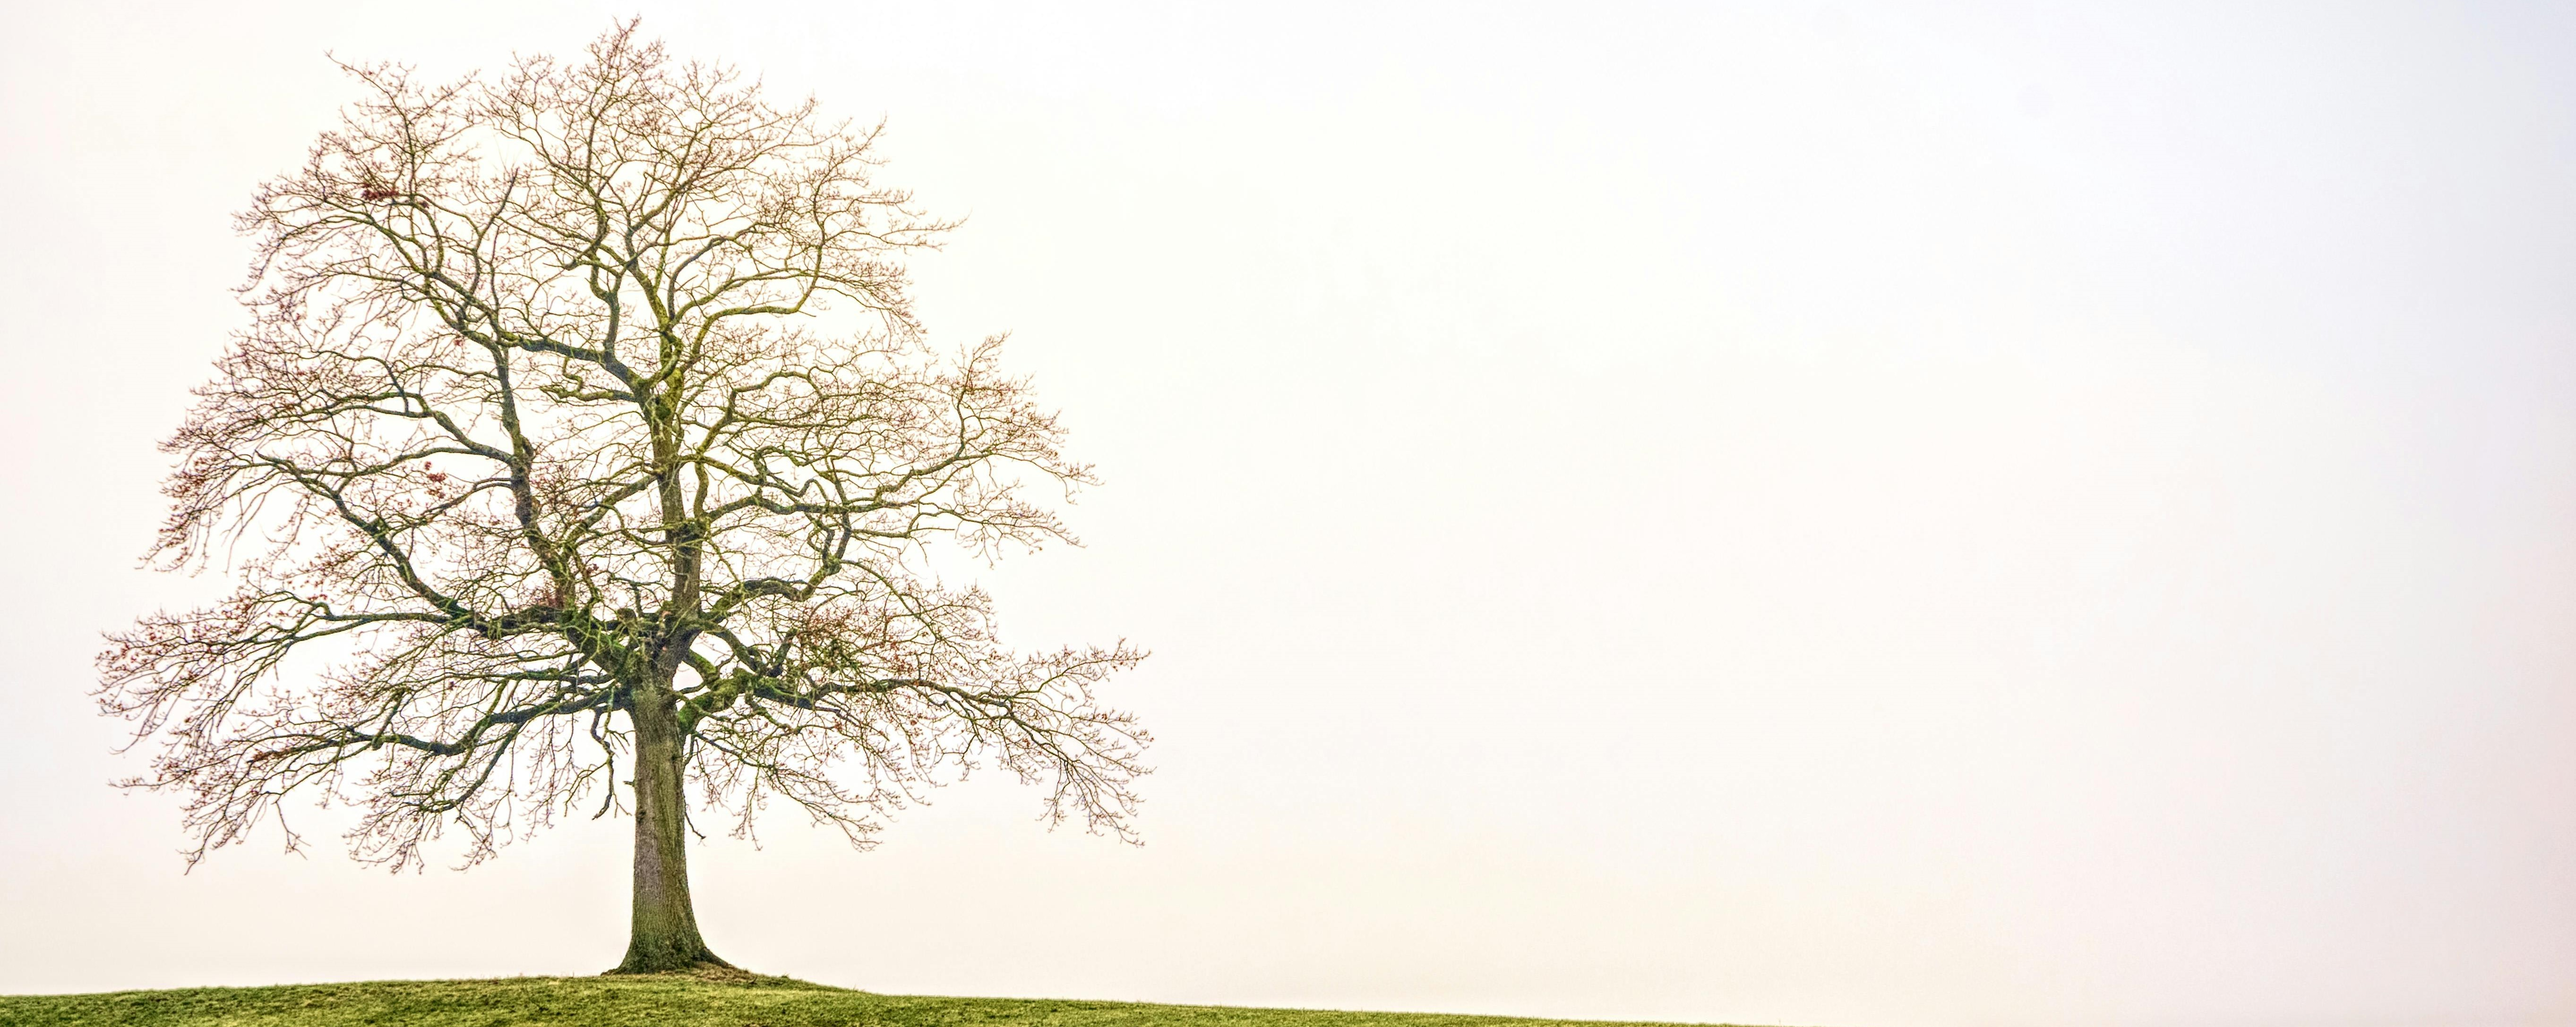
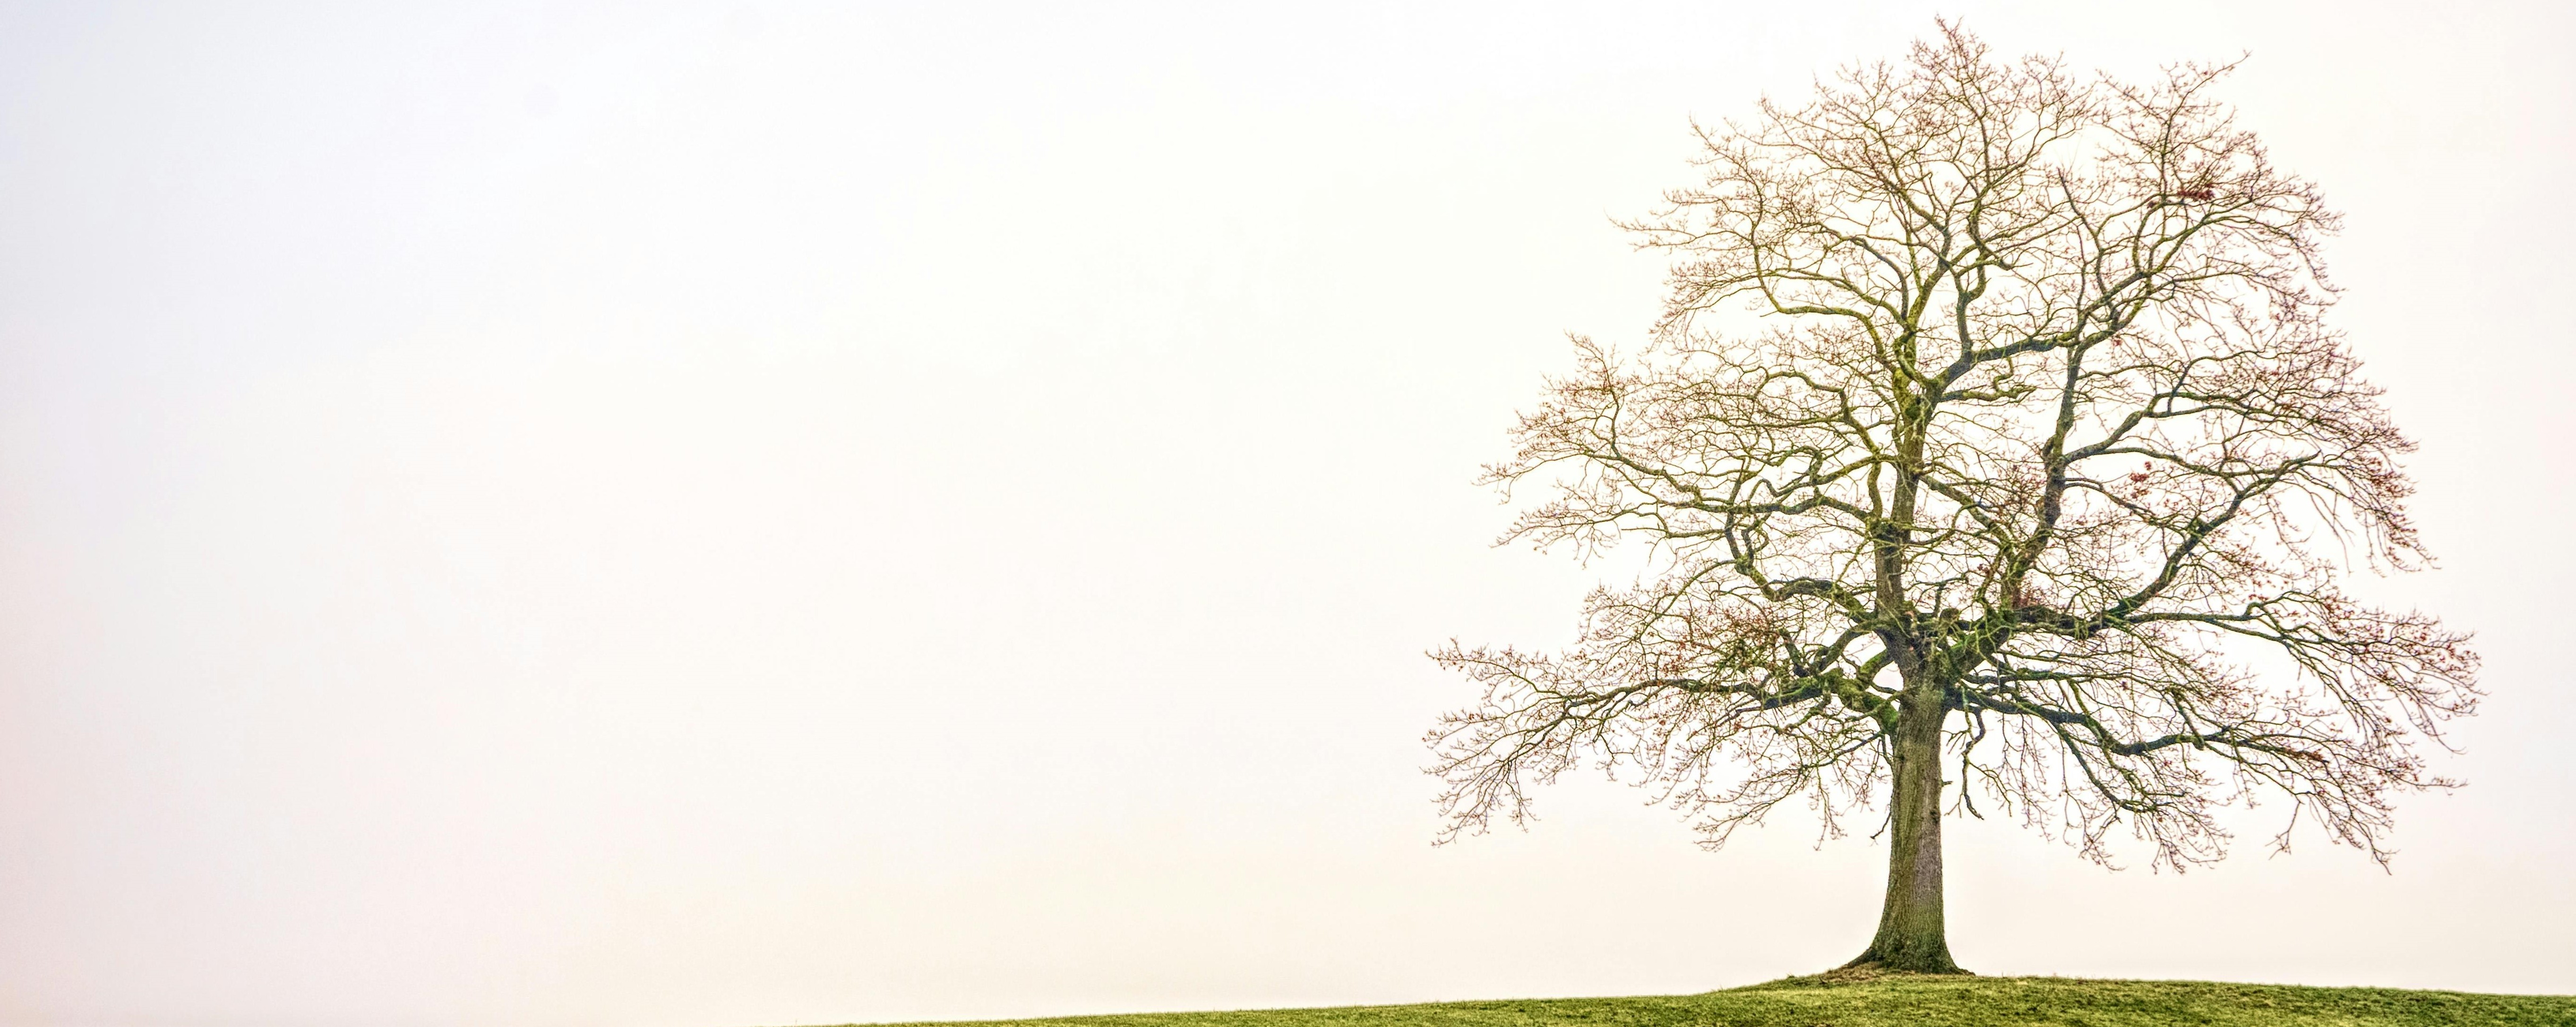
pictures and information in main section. nav styling

diff --git a/index.html b/index.html
@@ -1,0 +1,107 @@
+<!DOCTYPE html>
+<html lang="en">
+
+<head>
+  <meta charset="UTF-8">
+  <meta name="viewport" content="width=device-width, initial-scale=1.0">
+  <meta http-equiv="X-UA-Compatible" content="ie=edge">
+  <title>M L Trees</title>
+  <link href="assets/css/style.css" rel="stylesheet" type="text/css">
+  <meta name="description" content="M L Trees is a small business that specializes in domestic arboriculture.">
+  <meta name="keywords"
+    content="M L Trees, arboriculture, domestic arboriculture, trees, tree planting, tree care, tree care services, tree planting services, tree care services in the North West London, Hertfordshire, London, North West London, tree care in London, tree care in London.">
+  <meta name="author" content="M L Trees">
+
+</head>
+
+
+
+<body>
+
+  <header>
+    <div>
+      <h1 id="logo">M L TREES</h1>
+
+
+    </div>
+
+    <div id=menu>
+      <nav>
+        <ul>
+          <li><a href="#menu">Home</a></li>
+          <li><a href="#about">About</a></li>
+          <li><a href="#services">Services</a></li>
+          <li><a href="form.html">Contact</a></li>
+        </ul>
+      </nav>
+    </div>
+
+
+  </header>
+
+  <main>
+    <section>
+      <h2 id="about">Welcome to M L Trees</h2>
+      <p>We are a small business that specializes in domestic arboriculture. We offer a wide range of services,
+        including tree planting, tree care, and tree care services in the North West London. Our goal is to help our
+        clients achieve their tree planting and tree care goals.</p>
+    </section>
+
+
+    <section>
+      <h2 id="services">Our Services</h2>
+      <div>
+        <h3>Tree Reductions</h3>
+        <img src="assets/images/PXL_20211105_120330155 (1).jpg" alt="tree reduction" width="250px" height="300px">
+        
+        <p>We offer a variety of reduction services to benfit the health and asthectics of trees.
+      </div>
+
+      <div>  
+        <h3>Dead and Dangerous Trees</h3>
+        <img src="assets/images/PXL_20220221_110611072.jpg" width="250px" height="300px" alt="tree fallen over">
+        <p>We offer services to help you remove dead trees and other damaged trees from your garden.</p>
+      </div>
+      
+      <div>
+        <h3>Removal</h3>
+        <img src="assets/images/PXL_20211028_085101542~2.jpg" width="450" height="300" alt="dismantling a tree">
+        
+        <p>We offer removal services to help you remove dead trees and other damaged trees from your garden.</p>  
+      </div>
+
+    
+      
+      <div>
+        <h3>Tree Planting</h3>
+        <img src="" alt="planting a tree">
+        <p>We offer a variety of tree planting services, including full-grown trees, partial grown trees, and
+          compost trees. Our experienced team will work with you to create a customized plan that meets your needs and
+          budget.</p>
+      </div>
+    </section>
+  </main>
+
+  <footer>
+    <img id="footer-logo" src="assets/images/header image of tree.png" width="100px"  height="130px" alt="M L Trees logo">
+    <div id="social-media">
+      <h4>Follow us!</h4>
+      <a href="https://www.facebook.com" target="_blank" rel="noopener"
+        aria-label="Find us on Facebook (link opens in a new tab)"><i class="fa-brands fa-facebook"></i>Facebook</a>
+      <a href="https://www.instagram.com" target="_blank" rel="noopener"
+        aria-label="Find us on Instagram (link opens in a new tab)"><i class="fa-brands fa-instagram"></i>Instagram</a>
+      <a href="https://www.twitter.com" target="_blank" rel="noopener"
+        aria-label="Find us on Twitter (link opens in a new tab)"><i class="fa-brands fa-twitter"></i>Twitter</a>
+      <a href="https://www.youtube.com" target="_blank" rel="noopener"
+        aria-label="Find us on Youtube (opens in a new tab)"><i class="fa-brands fa-youtube"></i>Youtube</a>)
+    </div>
+    <p>Copyright &copy; 2023 M L Trees</p>
+
+  </footer>
+
+
+  <!--font awesome kit-->
+  <script src="https://kit.fontawesome.com/9517f1cd09.js" crossorigin="anonymous"></script>
+</body>
+
+</html>

diff --git a/assets/css/style.css b/assets/css/style.css
@@ -11,8 +11,8 @@
 }
 /*genral styles*/
 body { 
-  display: flex;
   background: #e7dabc;
+  min-height: 100vh;
 
 
 }
@@ -20,5 +20,43 @@ body {
 /*header styles*/
 header {
   width: 100%;
-  background: url("../images/pexels-johannes-plenio-1146706.jpg") no-repeat;
+  height: 300px;
+  background: url("../images/pexels-johannes-plenio-1146706.jpg") no-repeat center center/cover;
+}
+
+/*nav styles*/
+#menu {
+  letter-spacing: 2px;
+  font-size: 110%;
+  
+  
+ 
+ 
+}
+
+nav {
+  width: 100%;
+  padding-left: 1em;
+  display:flex;
+  justify-content: space-between;
+  font-family: 'Oswald', sans-serif;
+  font-size: 1.5em;
+  letter-spacing: 2px;
+  position: bottom;
+ 
+ 
+  
+}
+
+#logo {
+  font-family: 'Oswald', sans-serif;
+  font-size: 5rem;
+  color: #000000;
+  margin-left: 10px;
+  padding: 10px;
+  text-decoration: none;
+}
+
+#menu li{
+   list-style-type: none;
 }

diff --git a/form.html b/form.html
@@ -18,11 +18,9 @@
   <body>
 
     <header>
-          <div>
-            <h1 id="home">M L TREES</h1>
-          </div>
-
-      <div>      
+         
+        <h1 id="home">M L TREES</h1>
+           
         <nav>
           <ul>
             <li><a href="#home">Home</a></li>
@@ -31,7 +29,7 @@
             <li><a href="form.html">Contact</a></li>
           </ul>
         </nav>
-      </div>
+      
 
       
     </header>
